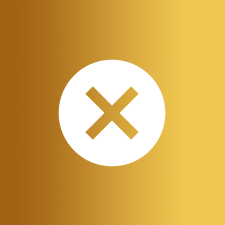
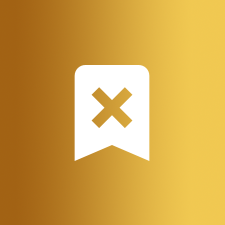
Update to database, podcasts folder, add functions

Changed region(s): [[0.2489, 0.2489, 0.7467, 0.7467], [0.3733, 0.3733, 0.6222, 0.6222]]

diff --git a/Contents/Code/__init__.py b/Contents/Code/__init__.py
@@ -2,76 +2,81 @@ from DumbTools import DumbKeyboard
 
 ART = 'plexcasts_art.jpg'
 ICON = 'plexcasts_icon.png'
-PLUS = 'plexcasts_find.png'
+ADD = 'plexcasts_add.png'
+FIND = 'plexcasts_find.png'
 MINUS = 'plexcasts_remove.png'
 NEXT = 'plexcasts_next.png'
 BACK = 'plexcasts_back.png'
 
 ####################################################################################################
 def Start():
+	Plugin.AddViewGroup("Podcasts", viewMode="InfoList")
+	Plugin.AddViewGroup("PodcastEpisode", viewMode="InfoList")
 
+	ObjectContainer.view_group = 'Podcasts'
 	ObjectContainer.art = R(ART)
 	ObjectContainer.title1 = 'PlexCasts'
 	TrackObject.thumb = R(ICON)
 
 	# Initialize Dict if it does not exist yet
-	if not Dict['feed']:
-		Dict['feed'] = []
+	if not Dict['podcastlist']:
+		Dict['podcastlist'] = []
+
+#	Dict['podcastlist'] = []
+#	Dict.save()
 
 ####################################################################################################     
 @handler('/music/plexcasts', 'PlexCasts', thumb=ICON, art=ART)
-def MainMenu(nameofshow=None, urlofshow=None, artofshow=None):
+def MainMenu():
+	
+	oc = ObjectContainer(view_group="Podcasts")
 
-	oc = ObjectContainer()
-
-	if (nameofshow != None) and (urlofshow != None) and (artofshow != None):
-
-		ugly = [nameofshow, urlofshow, artofshow]
-
-		if ugly not in Dict['feed']:
-			Dict['feed'].append(ugly)
-
-		Dict['feed'].sort(key=lambda x: x[0])
-		Dict.Save()
-
-	for x in Dict['feed']:
-
-		try:
-			oc.add(DirectoryObject(key=Callback(SecondMenu, title=x[0], feedurl=x[1], offset=0), title=x[0], thumb = x[2]))
-		except:
-			pass
+	oc.add(DirectoryObject(key=Callback(PodcastMenu), title="My Podcasts", thumb = R(ICON)))
 
 	if Client.Product in DumbKeyboard.clients:
 		DumbKeyboard('/music/plexcasts/find', oc, Search,
 			dktitle = 'Find Podcast',
-			dkthumb = R(PLUS))
+			dkthumb = R(FIND))
 	else:
-	    oc.add(InputDirectoryObject(key=Callback(Search), title="Find Podcast", thumb = R(PLUS)))
+	    oc.add(InputDirectoryObject(key=Callback(Search), title="Find Podcast", thumb = R(FIND)))
+
+	return oc
+
+####################################################################################################     
+@route('/music/plexcasts/podcasts')
+def PodcastMenu():
+
+	oc = ObjectContainer(view_group="Podcasts")
+	oc.title1 = 'My Podcasts'
+
+
+	for x in Dict['podcastlist']:
+
+		try:
+			oc.add(DirectoryObject(key=Callback(PodcastEpisodeMenu, title=x[1], feedurl=x[0], offset=0, showAdd="False"), title=x[1], summary=x[2], thumb = x[3]))
+		except:
+			pass
 
 	return oc
 
 ####################################################################################################
-def DelMenu(feedObj):
+@route('/music/plexcasts/podcast')
+def PodcastEpisodeMenu(title, feedurl, offset, showAdd):
 
-	oc = ObjectContainer()
-
-	try:	
-		Dict['feed'].remove(feedObj)
-		Dict.Save()
-	except:
-		pass
-
-	oc.add(DirectoryObject(key=Callback(MainMenu), title="Back", thumb = R(BACK)))
-	return oc
-
-####################################################################################################
-def SecondMenu(title, feedurl, offset):
-
-	oc = ObjectContainer()
+	oc = ObjectContainer(view_group="PodcastEpisode")
 	try:
 		feed = RSS.FeedFromURL(feedurl)
 
+		if showAdd == "True":
+			oc.title1 = 'Listen or add podcast'
+			oc.add(DirectoryObject(key=Callback(AddPodcast, podcastURL=feedurl, podcastName=feed.channel.title, podcastSummary=feed.channel.description, podcastIcon=feed.channel.image.url), title="Add Podcast", thumb = R(ADD)))
+		else:
+			oc.title1 = title
+
+
 		displayCount = int(Prefs["DisplayCount"])
+		offset = int(offset)
+
 		if Prefs["Sortord"]:
 			mal = 1
 		else:
@@ -82,7 +87,9 @@ def SecondMenu(title, feedurl, offset):
 			url = item.enclosures[0]['url']
 			showtitle = item.title
 			summary = String.StripTags(item.summary)
-
+			if len( summary) == 0:
+				summary = "- No episode details -"
+			
 			try:
 				image = str(feed.channel.image.url)
 				oc.add(CreateTrackObject(url=url, title=showtitle, thumb=image, summary=summary))
@@ -92,7 +99,7 @@ def SecondMenu(title, feedurl, offset):
 				pass
 
 		if (len(feed.entries)-offset) > displayCount:
-			oc.add(DirectoryObject(key=Callback(SecondMenu, title=title, feedurl=feedurl, offset=offset+displayCount), title="Next", thumb = R(NEXT)))
+			oc.add(DirectoryObject(key=Callback(PodcastEpisodeMenu, title=title, feedurl=feedurl, offset=offset+displayCount), title="Next", thumb = R(NEXT)))
 
 	except Exception, e:
 		Log ( 'Exception while reading feed')
@@ -101,14 +108,49 @@ def SecondMenu(title, feedurl, offset):
 		oc.add(DirectoryObject(key=Callback(MainMenu), title="Back", thumb = R(BACK)))
 		pass
 
-
-	for x in Dict['feed']:
+	for x in Dict['podcastlist']:
 		try:
-			if x[1] == feedurl:
-				oc.add(DirectoryObject(key=Callback(DelMenu, feedObj=x), title="Remove Podcast", thumb = R(MINUS)))
+			if x[0] == feedurl:
+				oc.add(DirectoryObject(key=Callback(DelPodcast, feedObj=x), title="Remove Podcast", summary="Removes this Podcast from your list", thumb = R(MINUS)))
 		except:
 			pass
 
+	return oc
+
+####################################################################################################     
+@route('/music/plexcasts/add')
+def AddPodcast( podcastURL=None, podcastName=None, podcastSummary=None, podcastIcon=None):
+
+	oc = ObjectContainer(no_cache=True)
+	oc.title1 = 'Podcast added'
+
+	if (podcastURL != None) and (podcastName != None) and (podcastSummary != None) and (podcastIcon != None):
+
+		ugly = [podcastURL, podcastName, podcastSummary, podcastIcon]
+
+		if ugly not in Dict['podcastlist']:
+			Dict['podcastlist'].append(ugly)
+
+		Dict['podcastlist'].sort(key=lambda x: x[0])
+		Dict.Save()
+
+	oc.add(DirectoryObject(key=Callback(MainMenu), title="Back", thumb = R(BACK)))
+
+	return oc
+
+####################################################################################################
+@route('/music/plexcasts/delete')
+def DelPodcast(feedObj):
+
+	oc = ObjectContainer(no_cache=True)
+
+	try:	
+		Dict['podcastlist'].remove(feedObj)
+		Dict.Save()
+	except:
+		pass
+
+	oc.add(DirectoryObject(key=Callback(MainMenu), title="Back", thumb = R(BACK)))
 	return oc
 
 ####################################################################################################
@@ -148,12 +190,12 @@ def CreateTrackObject(url, title, thumb, summary, include_container=False):
 @route('/music/plexcasts/find', 'Find Podcast', thumb=ICON, art=ART)
 def Search(query):
 
-	oc = ObjectContainer()
+	oc = ObjectContainer(no_cache=True)
 	oc.title1 = 'Select podcast to add'
 	neary = str(query.replace (" ", "+"))
 	pod = JSON.ObjectFromURL("https://itunes.apple.com/search?term=%s&entity=podcast&limit=26" % neary)['results']
 
 	for x in pod:
-		oc.add(DirectoryObject(key=Callback(MainMenu, urlofshow=[x][0]['feedUrl'], nameofshow=[x][0]['collectionName'], artofshow=[x][0]['artworkUrl600']), title=[x][0]['collectionName'], thumb=[x][0]['artworkUrl600']))
+		oc.add(DirectoryObject(key=Callback(PodcastEpisodeMenu, title=[x][0]['collectionName'], feedurl=[x][0]['feedUrl'], offset=0, showAdd="True"), title=[x][0]['collectionName'], thumb=[x][0]['artworkUrl600']))
 
 	return oc
